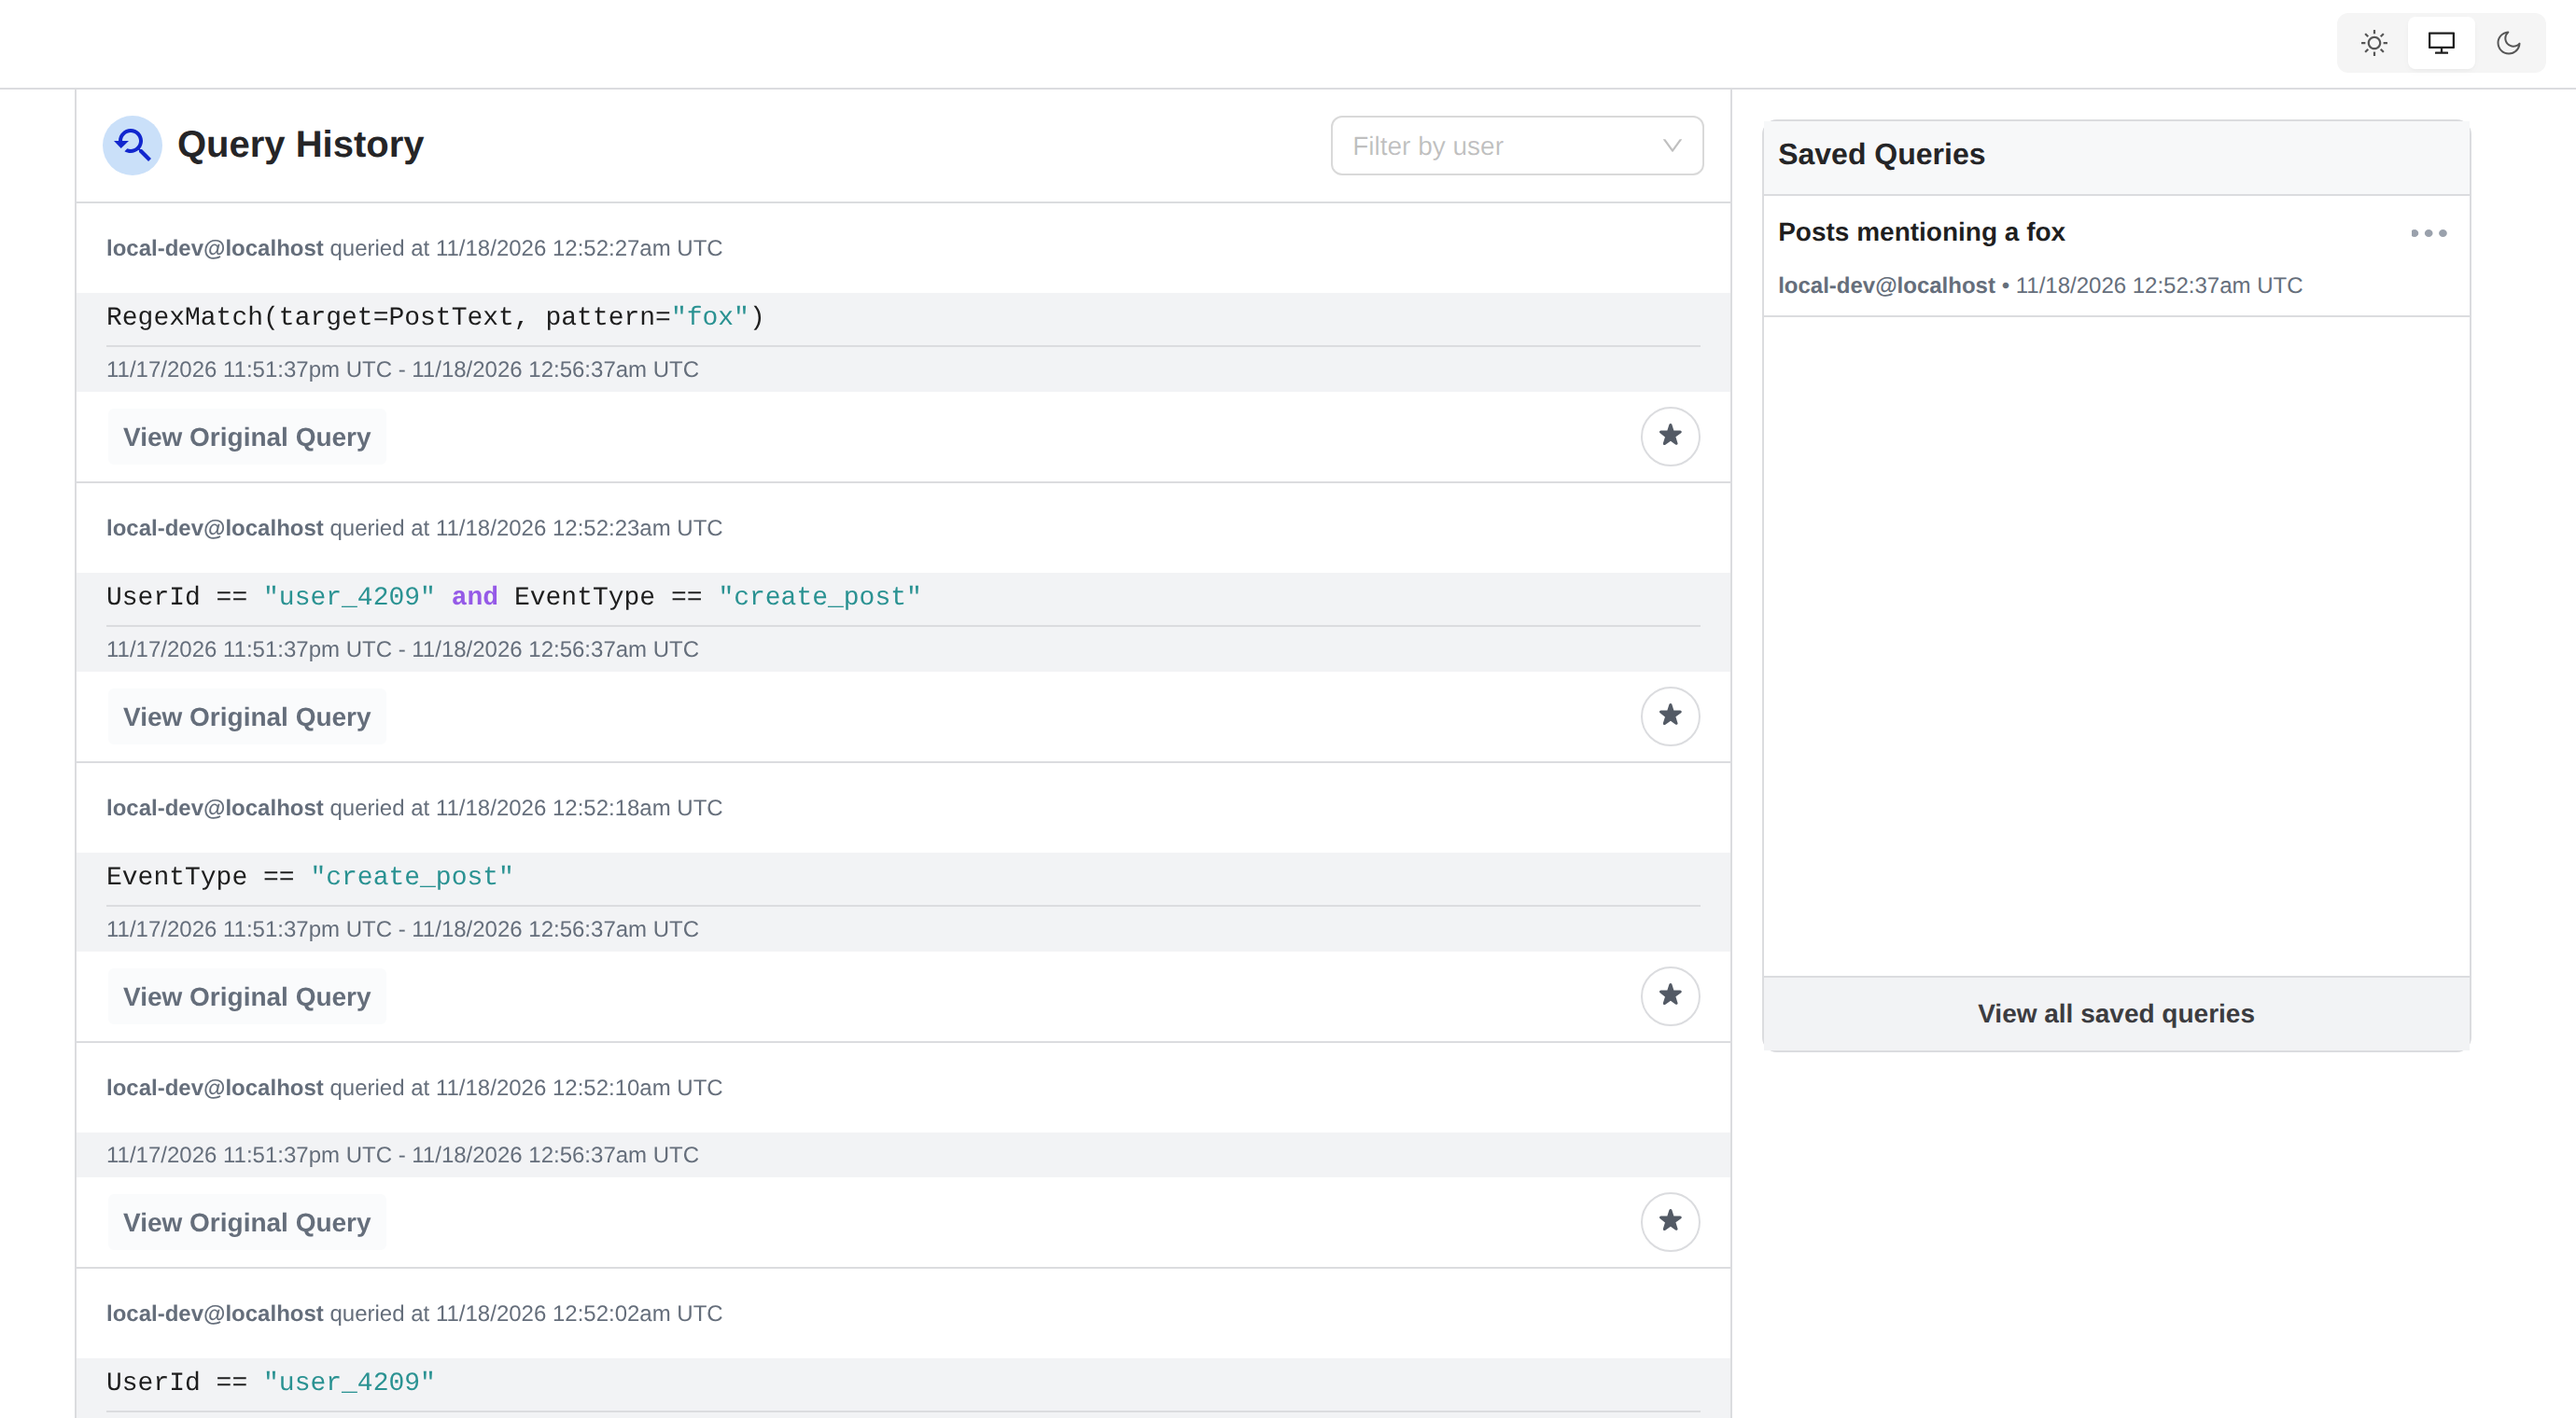
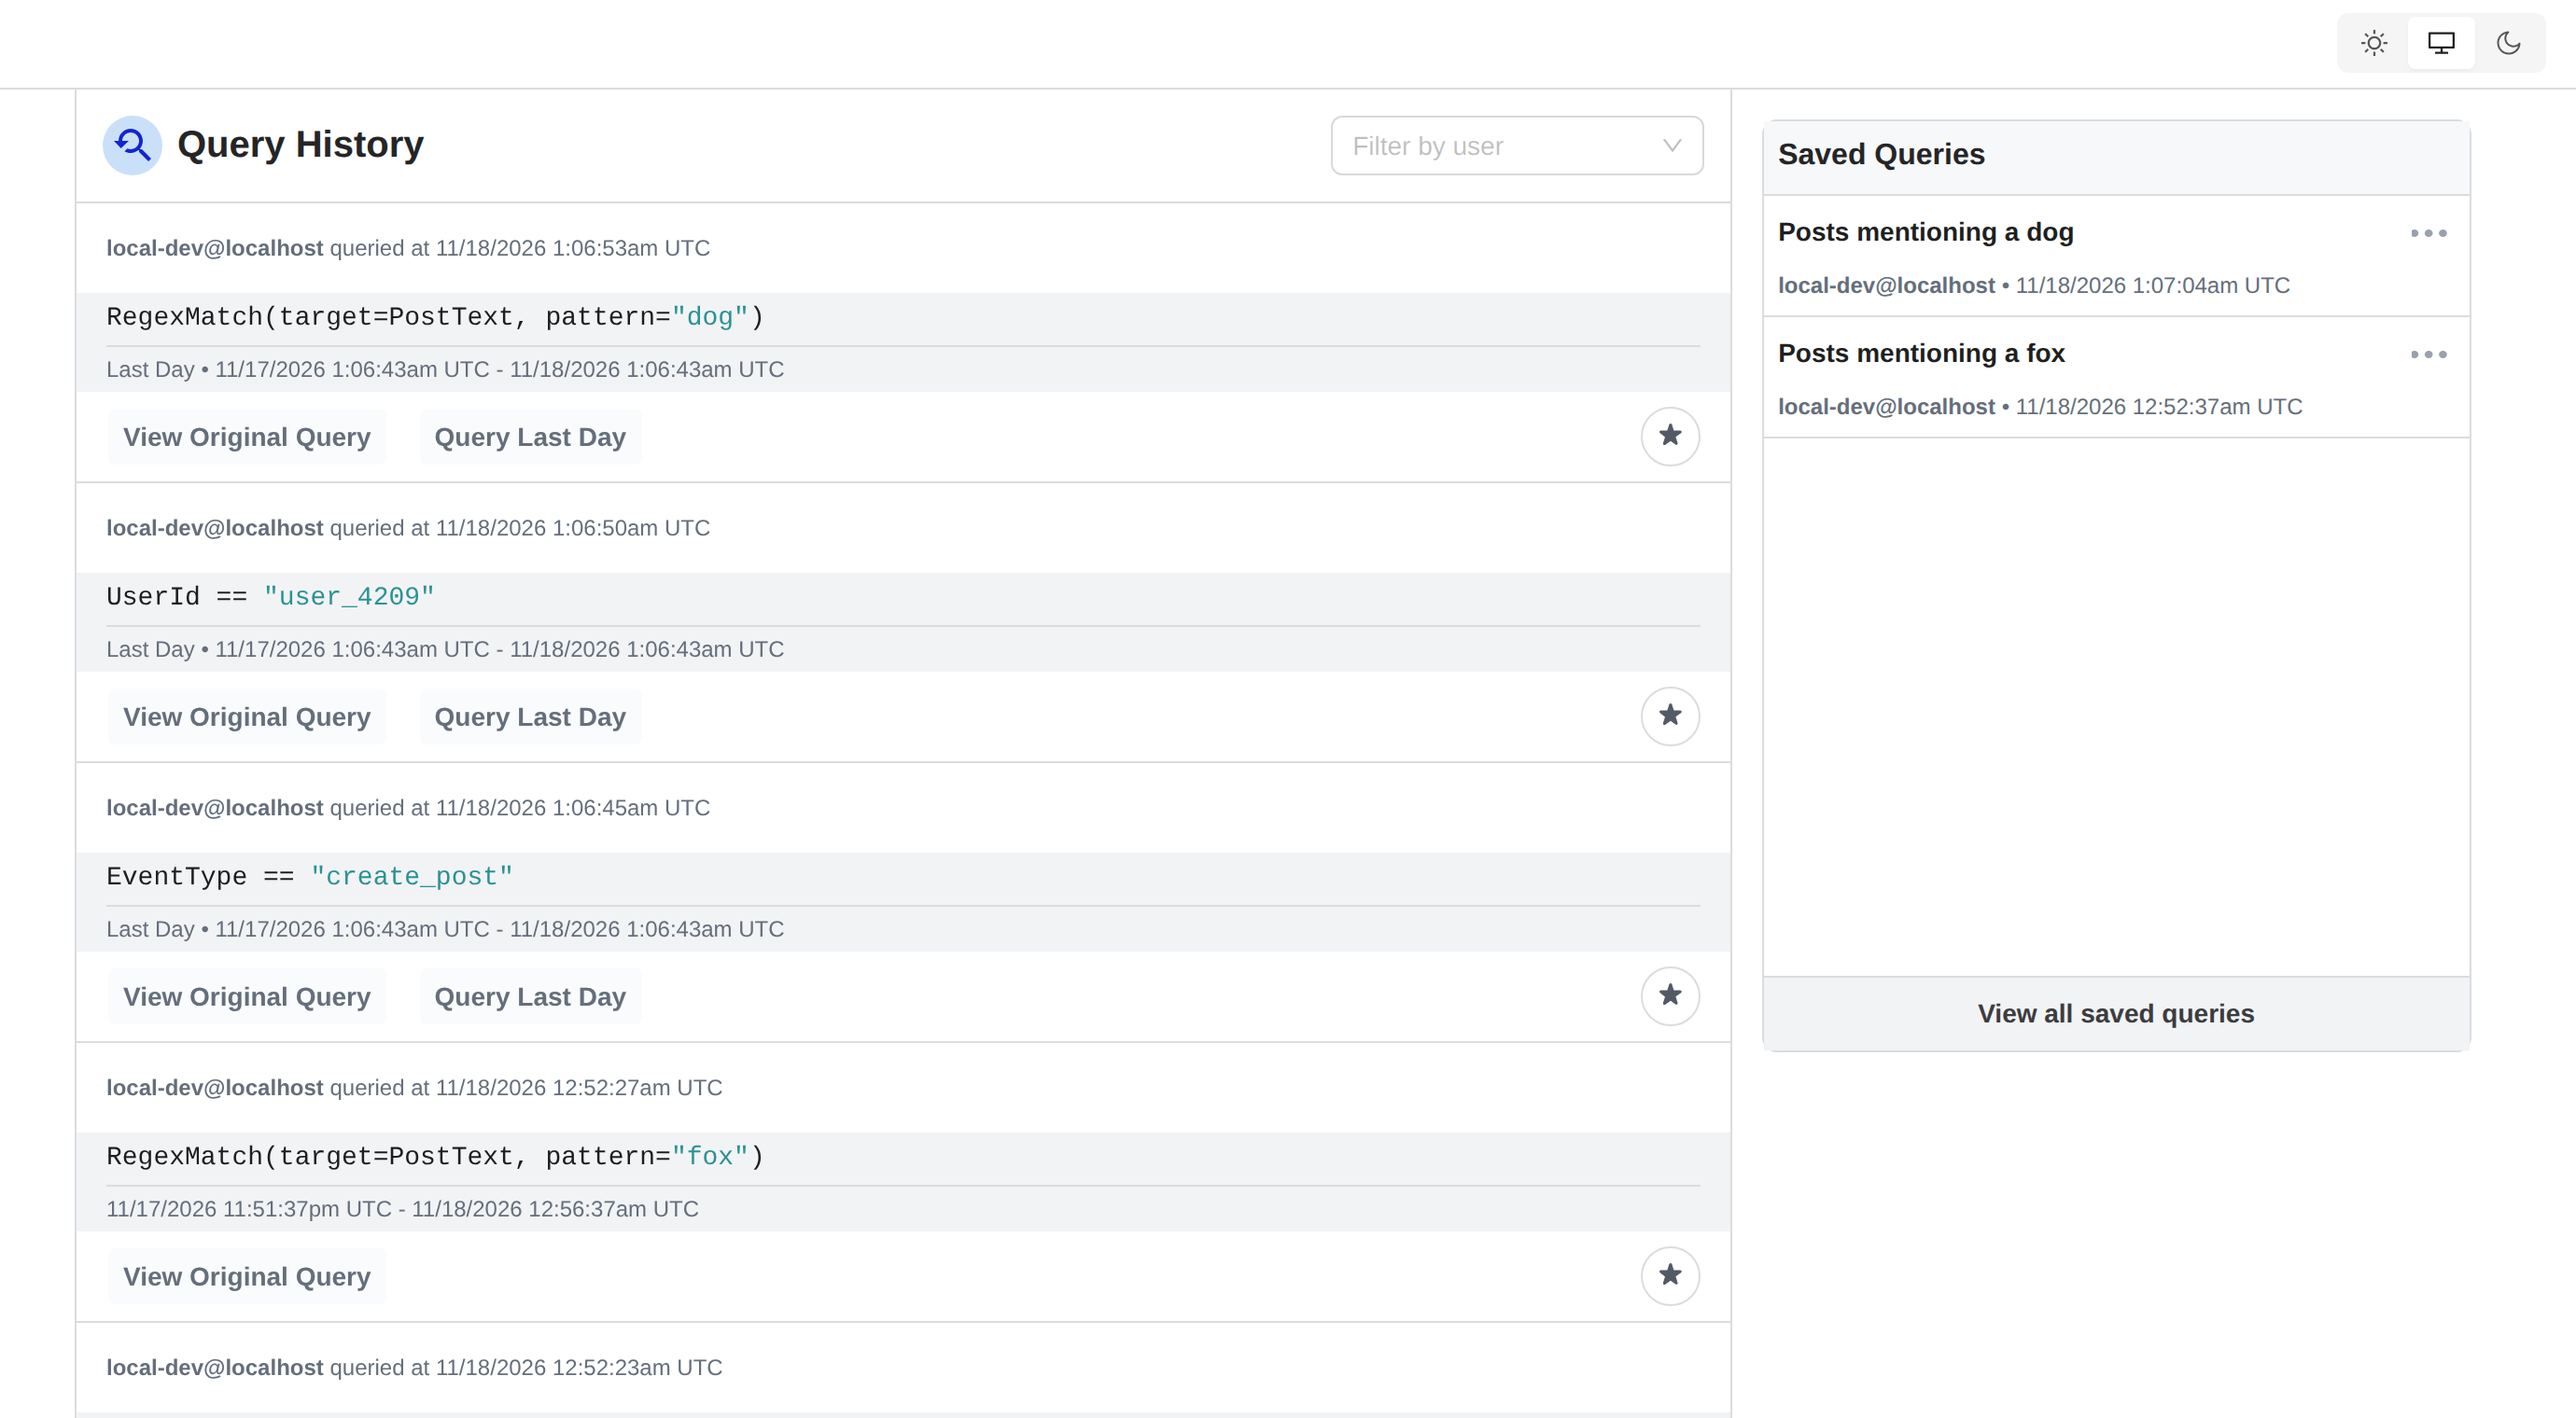
docs: address review on the user guide

diff --git a/docs/user/investigate/README.md b/docs/user/investigate/README.md
@@ -14,7 +14,7 @@ The left panel is where you write and run queries. Osprey uses SML syntax—the 
 
 ![The query input with an SML filter for post-creation events by one user, a Last 2 Weeks time range, and a Submit Query button](../../images/query-box.png)
 
-As you type, the input suggests feature and rule names. Hovering over a rule shows a tooltip with its description.
+As you type, the input suggests feature and rule names, and action names after `ActionName ==`. Hovering over the ⓘ icon next to a suggested rule shows its description.
 
 ![Autocomplete in the query input suggesting the ContainsHello rule after typing "Contains", with a tooltip describing it as "Post contains the word hello"](../../images/query-udf-hover.png)
 
@@ -63,7 +63,7 @@ The stream can be displayed in card format or list format. On first load, each e
 
 ![The Set Features modal for the event stream, with a toggle for Set Custom Features and a filterable checklist of features grouped by model and rule: Models Base, Models Post, and Rules Post Contains Hello](../../images/summary-features.png)
 
-Selecting an entity in the event stream (such as a user ID or IP address) opens its label panel, where you can add labels; choose **Go to Entity View** there for the full [Entity Details](labels.md#entity-details) page. To query on an entity's value instead, <kbd>Shift</kbd>-click it to add it to the current query, or <kbd>Ctrl</kbd>-click (<kbd>⌘ Cmd</kbd>-click on macOS) to open a new query for just that value in a new tab.
+Selecting an entity in the event stream (such as a user ID or IP address) opens its label drawer, where you can add labels; choose **Go to Entity View** there for the full [Entity Details](labels.md#entity-details) page. To query on a feature value instead, <kbd>Shift</kbd>-click it to add it to the current query; you can Shift-click several values, and they're added together when you release <kbd>Shift</kbd>. <kbd>Ctrl</kbd>-click (<kbd>⌘ Cmd</kbd>-click on macOS) a value to open a new query for just that value in a new tab.
 
 **See Details** on an event card opens a detail view at `/events/:eventId` in a new window, with **Overview**, **Input**, and **Output** tabs showing the event's extracted feature values, its input data, and its rule results and effects.
 
@@ -77,7 +77,7 @@ Hovering over a query in the sidebar shows the Top N dimensions that were active
 
 The full Query History page (accessible from the sidebar) shows a searchable list of all queries run across your team. You can filter by user email, view the original query text, and re-run any past query using the same time range it was originally run with.
 
-![The Query History page listing each query with its text and time range, a View Original Query button and a save (star) button on each, a filter-by-user dropdown, and a Saved Queries sidebar](../../images/query-history-page.png)
+![The Query History page listing each query with its text and time range, View Original Query, Query Last Day, and save (star) buttons on each, a filter-by-user dropdown, and a Saved Queries sidebar](../../images/query-history-page.png)
 
 ## Saved Queries
 
@@ -87,11 +87,11 @@ For queries you return to frequently, Osprey lets you save them by name.
 
 The Saved Queries page (accessible from the sidebar) lists all saved queries with the query text, the user who saved it, and when it was saved. You can filter by user email.
 
-![The Saved Queries page listing a saved query with its text and metadata, and an open menu of Run Original Query, Show Saved Query History, and Delete Saved Query options](../../images/saved-queries-page.png)
+![The Saved Queries page listing a saved query with its text and metadata, and an open menu of Run Original Query, Run Query Using Interval, Show Saved Query History, and Delete Saved Query options](../../images/saved-queries-page.png)
 
 From each saved query's menu, you can:
 - **Run Original Query** to re-run it over its original time range
-- **Run Query Using Interval** to run it over its saved interval (e.g. Last Day) relative to now; only for queries run with a relative interval, not a custom date range
+- **Run Query Using Interval** to run it over its saved interval (e.g. Last Day) relative to now; offered only when the saved time range matches one of the preset intervals
 - **Show Saved Query History** to see past runs of the query
 - **Delete Saved Query**, with a confirmation step
 

diff --git a/docs/user/investigate/query-syntax.md b/docs/user/investigate/query-syntax.md
@@ -2,7 +2,7 @@
 
 Osprey uses SML (“Some Madeup Language,” a subset of Python with additional restrictions) for queries. Queries match against **features**—the named values your rules extract from each event—including **entities** and **labels**. If those terms are new, read [Concepts](../../concepts.md) first.
 
-A query can only use features your rules define, compared with values of the feature's type. The examples below use the features of the demo ruleset in `example_rules/`: `EventType`, `UserId` and `PostText` are strings, and the demo's users are labeled `meow`. Substitute your own deployment's features; the [Features Registry](../manage.md#features-registry) lists them with their types. A feature that doesn't exist is rejected with "does not exist in any rule files", and comparing a feature with a value of the wrong type (`UserId == 4454` for a string feature) with "incompatible types".
+A query can only use features your rules define, compared with values of the feature's type. The examples below use the features of the demo ruleset in `example_rules/`: `EventType`, `UserId` and `PostText` are strings, and the demo labels users `meow` when they post "hello". User IDs like `user_4454` are illustrative; the demo's IDs are random. Substitute your own deployment's features; the [Features Registry](../manage.md#features-registry) lists them with their types. A feature that doesn't exist is rejected with "does not exist in any rule files", and comparing a feature with a value of the wrong type (`UserId == 4454` for a string feature) with "incompatible types".
 
 ## Basic comparisons
 
@@ -22,7 +22,7 @@ EventType == "create_post" and UserId == "user_4454"
 (UserId == "user_4454") or (UserId == "user_8284")
 
 # in: match any value in a list
-EventType in ["create_post", "update_post"]
+EventType in ["create_post", "delete_post"]
 ```
 
 ## Query functions
@@ -35,7 +35,7 @@ Queries support a small, fixed set of built-in functions. Unlike the UDFs you us
 
 ```py
 # Regex match against a feature
-RegexMatch(target=PostText, pattern="(buy|sell|deal)")
+RegexMatch(target=PostText, pattern="(fox|dog)")
 ```
 
 > [!NOTE]
@@ -57,13 +57,13 @@ DidAddLabel(entity_type="User", label_name="meow")
 EventType == "create_post" and UserId == "user_4454"
 
 # Posts matching a pattern
-EventType == "create_post" and RegexMatch(target=PostText, pattern="urgent")
+EventType == "create_post" and RegexMatch(target=PostText, pattern="lazy")
 
 # Events where a user was labeled meow
 DidAddLabel(entity_type="User", label_name="meow")
 
 # Complex: posts matching a pattern that didn't label their author
 EventType == "create_post" and
-RegexMatch(target=PostText, pattern="(click|link|urgent)") and
+RegexMatch(target=PostText, pattern="(fox|dog)") and
 not DidAddLabel(entity_type="User", label_name="meow")
 ```

diff --git a/docs/user/README.md b/docs/user/README.md
@@ -18,4 +18,4 @@ The sidebar groups Osprey's tools by task, and this guide follows the same secti
 
   [![The Bulk Edit Labels form for roughly 9,800 entities matching a query, with label name, status, reason, and expiration fields](../images/bulk-label.png)](../images/bulk-label.png)
 
-The sidebar can be collapsed to an icon-only strip with the toggle at the top, next to the Osprey logo, and its state persists between sessions. The interface follows your OS or browser color scheme preference, or you can select a light or dark style using the toggle in the navigation bar.
+The sidebar can be collapsed to an icon-only strip with the toggle at the top, next to the Osprey logo, and its state persists between sessions. The interface follows your OS or browser color scheme preference, or you can choose light, system, or dark with the switcher at the top right.

diff --git a/docs/user/investigate/labels.md b/docs/user/investigate/labels.md
@@ -12,7 +12,7 @@ The UI requires a reason whenever you apply a label. (The UI API itself accepts 
 
 ## Entity Details
 
-Selecting an entity anywhere in the UI opens its label panel; choose **Go to Entity View** there to open the entity view (`/entity/<type>/<id>`), showing every label that has ever been applied to that entity, grouped by label name.
+Selecting an entity anywhere in the UI opens its label drawer; choose **Go to Entity View** there to open the entity view (`/entity/<type>/<id>`), showing every label that has ever been applied to that entity, grouped by label name.
 
 ![The entity view for a user, listing their negative labels—including identity_evasion with its description and an automatically added RapidHandleChange entry—beside the query page's charts and event stream](../../images/osprey-user-entity.png)
 

diff --git a/docs/user/manage.md b/docs/user/manage.md
@@ -52,7 +52,7 @@ The Rules Registry lists every rule loaded in your Osprey deployment.
 The list is paginated (50 per page) and can be filtered and sorted:
 
 - **Search**: filter by name, source file, or description
-- **Unused only**: show only rules that no `WhenRules` block uses, so they have no effects
+- **Unused only**: show only rules that no `WhenRules` block uses directly
 - **Sort**: by name, most referenced, or least referenced
 
 Each row shows the rule's name, source file, and how many `WhenRules` blocks use it. Expand a row for its description, its conditions, and the features it references.
